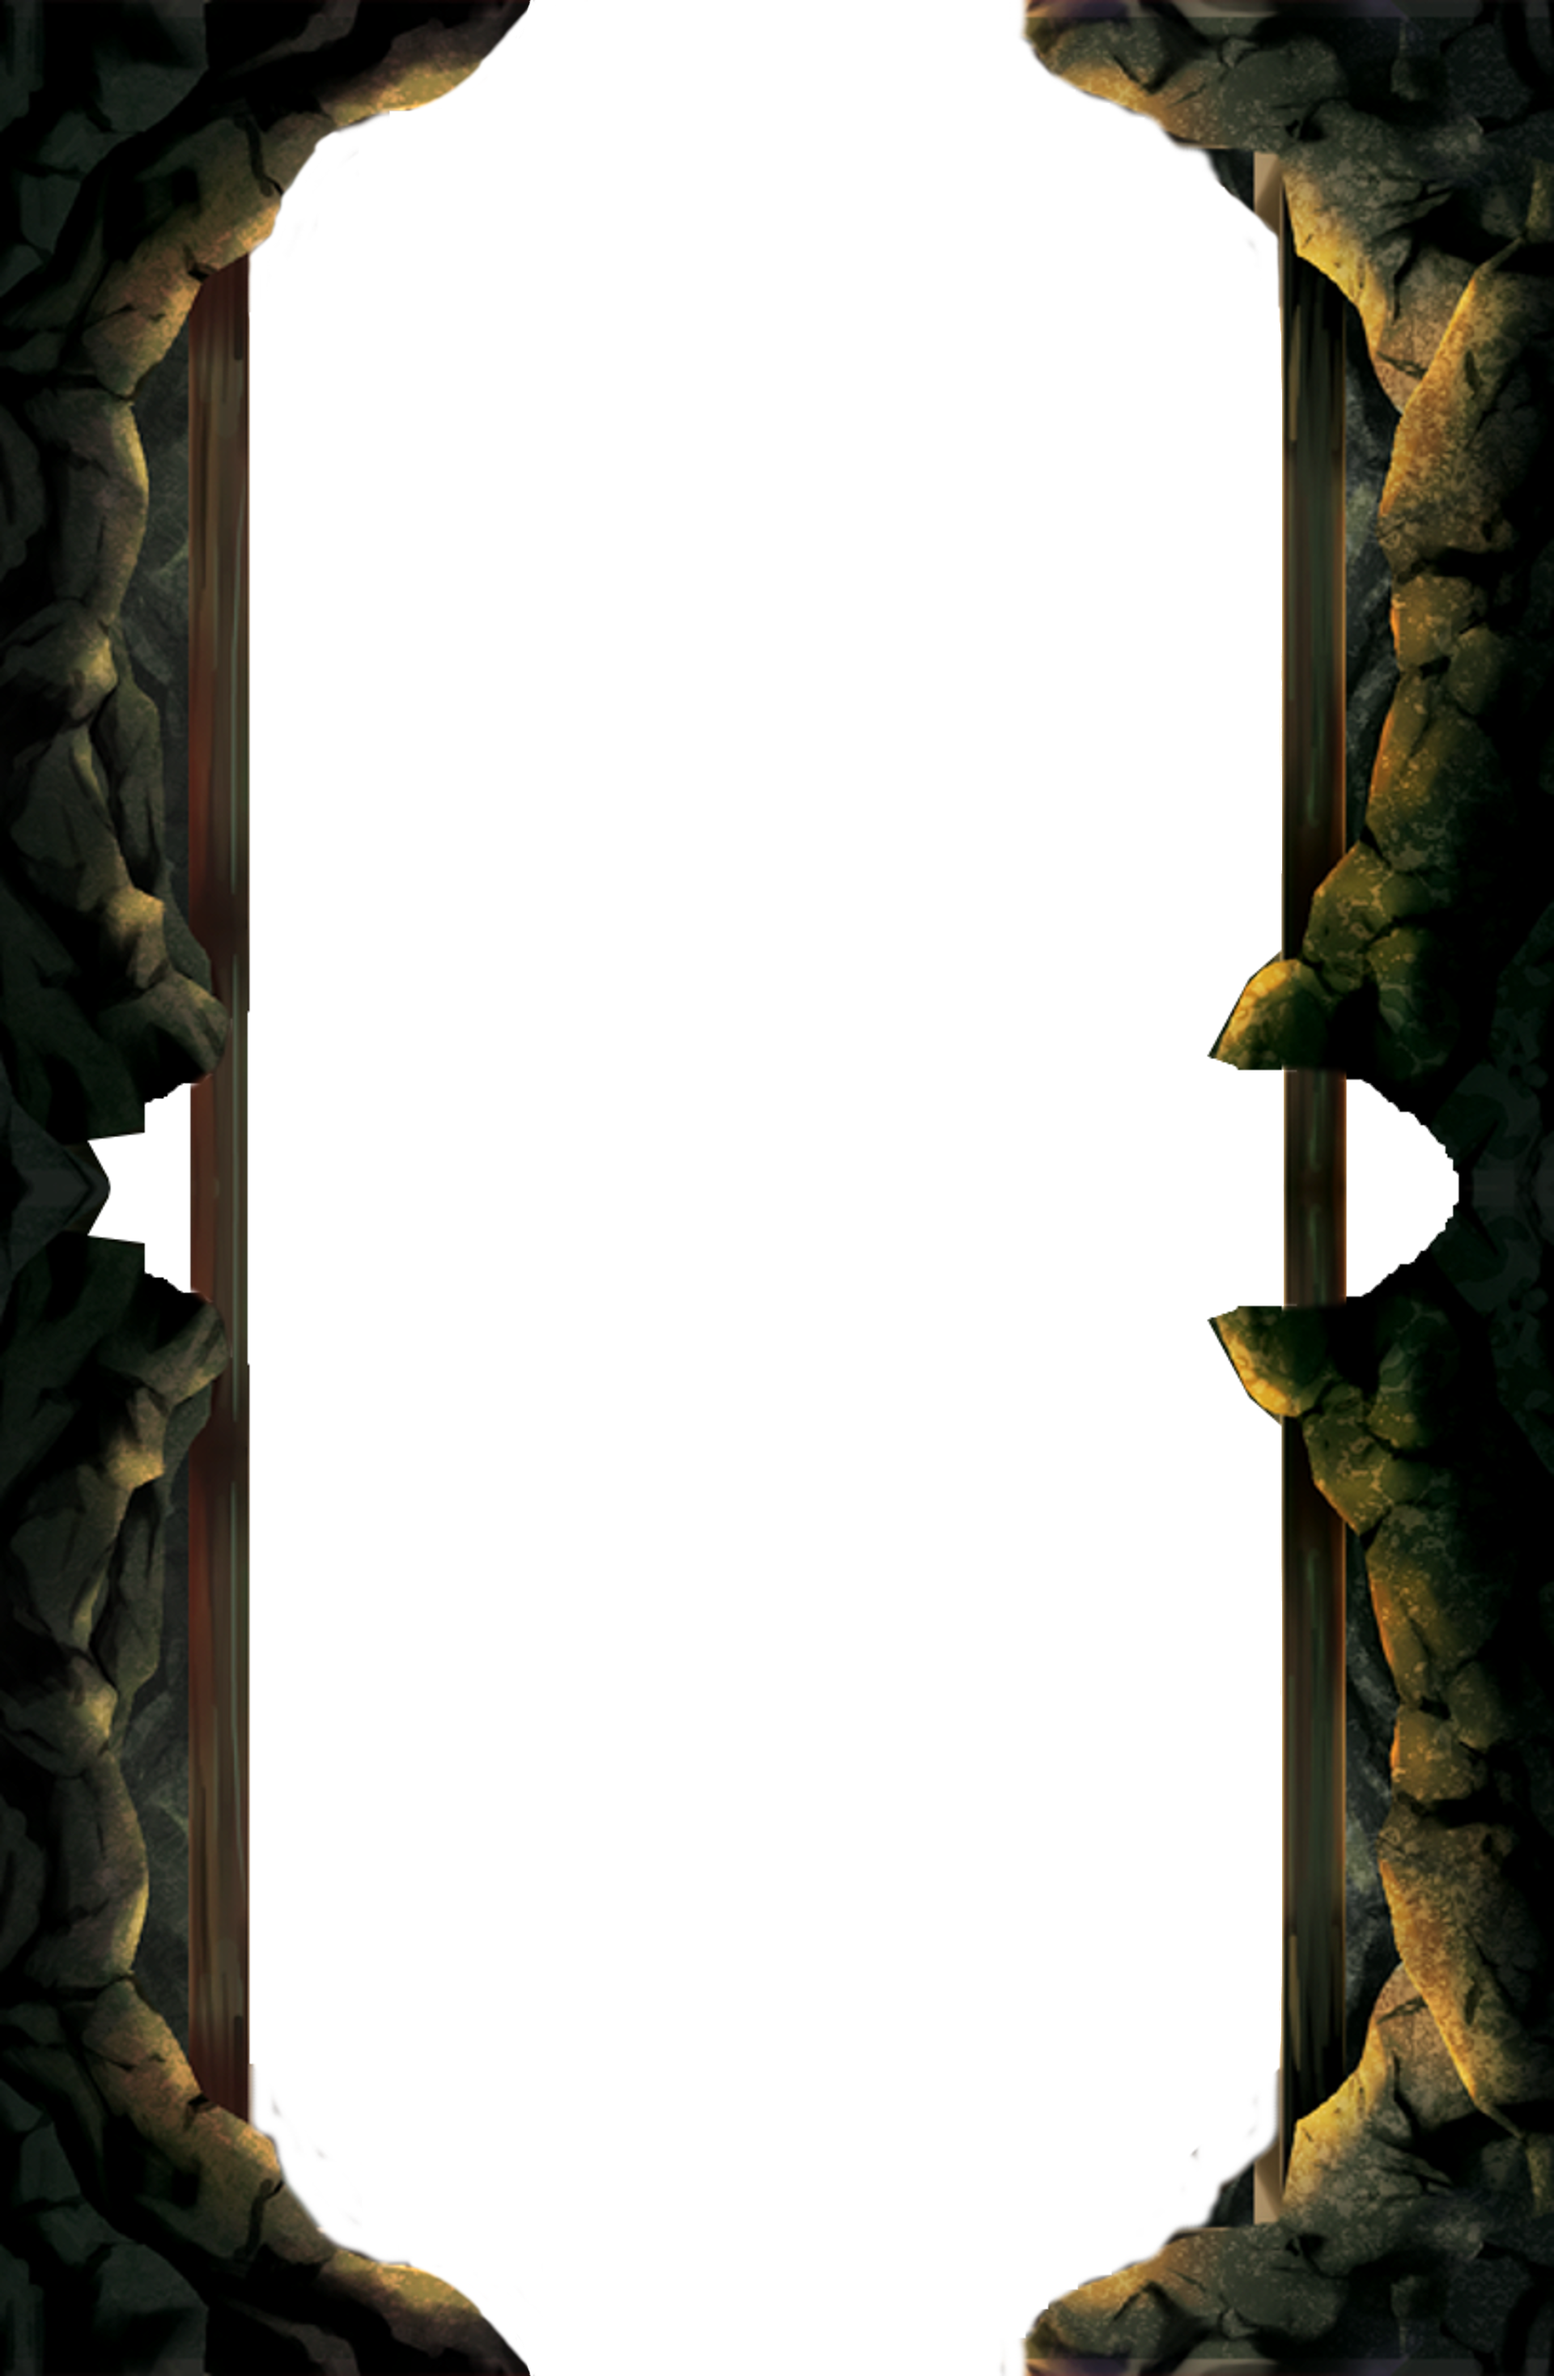
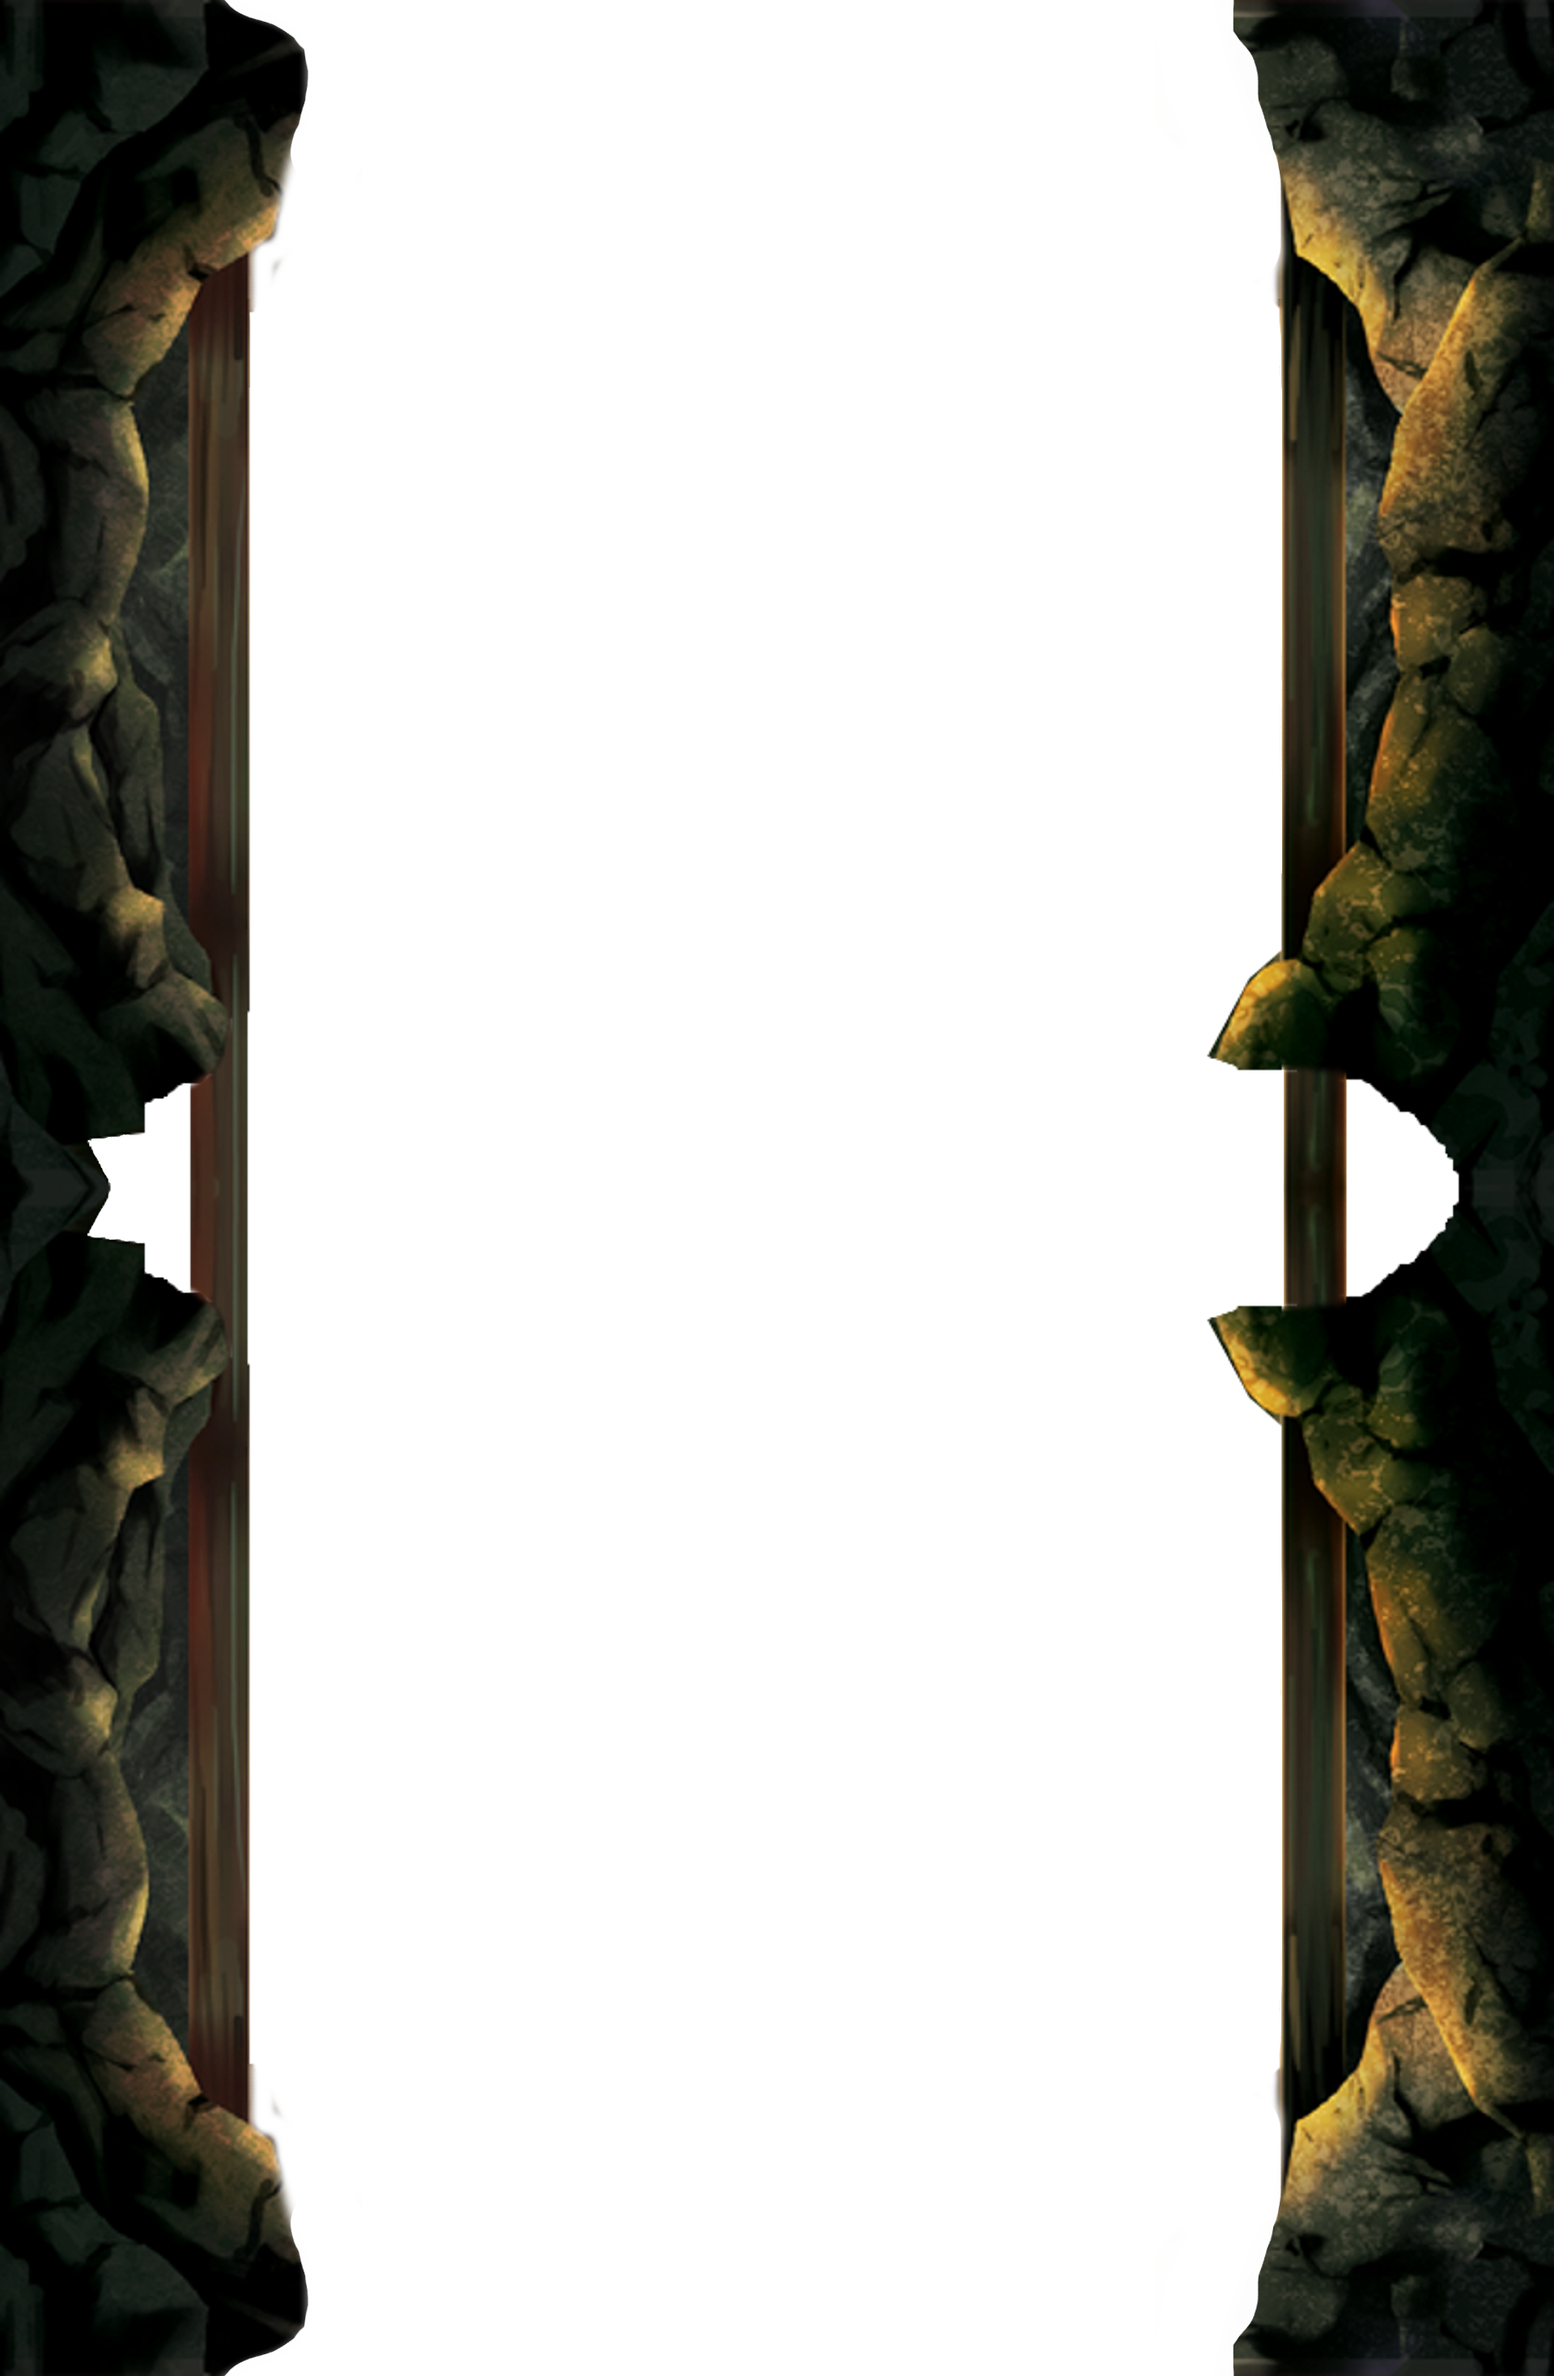
cutscene menu finished

diff --git a/source/main_menu_cutscene.c b/source/main_menu_cutscene.c
@@ -10,13 +10,12 @@
 
 void display_menu_background(st_rpg *s)
 {
-       sfRenderWindow_clear(s->window, sfBlack);
-       for (int i = 1; i != -1; i -= 1) {
-              sfRenderWindow_drawSprite(s->window,
-              s->mainm.rockback[i]->sprite, NULL);
-//              sfRenderWindow_drawSprite(s->window,
-//              s->mainm.hole[i]->sprite, NULL);
-       }
+       sfRenderWindow_drawSprite(s->window, s->mainm.abyss[0]->sprite, NULL);
+       sfRenderWindow_drawSprite(s->window, s->mainm.abyss[1]->sprite, NULL);
+       sfRenderWindow_drawSprite(s->window, s->mainm.rock2[0]->sprite, NULL);
+       sfRenderWindow_drawSprite(s->window, s->mainm.rock2[1]->sprite, NULL);
+       sfRenderWindow_drawSprite(s->window, s->mainm.rockback[0]->sprite, NULL);
+       sfRenderWindow_drawSprite(s->window, s->mainm.rockback[1]->sprite, NULL);
        sfRenderWindow_drawSprite(s->window, s->mainm.first->sprite, NULL);
        sfRenderWindow_drawSprite(s->window, s->mainm.rope->sprite, NULL);
        sfRenderWindow_display(s->window);
@@ -47,10 +46,20 @@ void vertical_movement_mainm(st_rpg *s)
        sfSprite_setPosition(s->mainm.first->sprite, s->mainm.first->pos);
        for (int i = 0; i != 2; i += 1) {
               s->mainm.rockback[i]->pos.y -= s->mainm.rockback[i]->speed;
+              s->mainm.rock2[i]->pos.y -= s->mainm.rock2[i]->speed;
+              s->mainm.abyss[i]->pos.y -= s->mainm.abyss[i]->speed;
               if (s->mainm.rockback[i]->pos.y < -2936)
-                     s->mainm.rockback[i]->pos.y = 2936;
+                     s->mainm.rockback[i]->pos.y += 2936 * 2;
+              if (s->mainm.rock2[i]->pos.y < -3000)
+                     s->mainm.rock2[i]->pos.y += 2236 * 2;
+              if (s->mainm.rock2[i]->pos.y < -5712)
+                     s->mainm.rock2[i]->pos.y += 5712 * 2;
               sfSprite_setPosition(s->mainm.rockback[i]->sprite,
               s->mainm.rockback[i]->pos);
+              sfSprite_setPosition(s->mainm.abyss[i]->sprite,
+              s->mainm.abyss[i]->pos);
+              sfSprite_setPosition(s->mainm.rock2[i]->sprite,
+              s->mainm.rock2[i]->pos);
        }
 }
 

diff --git a/source/main_menu.c b/source/main_menu.c
@@ -14,7 +14,8 @@ void destroy_main_menu(st_rpg *s)
        destroy_object(s->mainm.rope);
        for (int i = 0; i != 2; i += 1) {
               destroy_object(s->mainm.rockback[i]);
-//              destroy_object(s->mainm.hole[i]);
+              destroy_object(s->mainm.rock2[i]);
+              destroy_object(s->mainm.abyss[i]);
        }
 }
 
@@ -25,14 +26,15 @@ void initialize_menu(st_rpg *s)
        s->mainm.rope = create_object("images/menu/ropesheet.png",
        create_vector2f(200, 0), create_rect(0, 0, 72, 1080), 0);
        for (int i = 0; i != 2; i += 1) {
+              s->mainm.abyss[i] = create_object("images/menu/abyss2.png",
+       create_vector2f(300 + 1400 * i , 5712 * i),
+       create_rect(0, 0, 1920, 5712), 2);
               s->mainm.rockback[i] = create_object("images/menu/RockCave.png",
-       create_vector2f(0, 2936 * i), create_rect(0, 0, 1920, 2936), 5);
-//              s->mainm.hole[i] = create_object("images/menu/holes.png",
-//       create_vector2f(rand() % 1920 - 50, y + y * -i + rand() % 200),
-//       create_rect(0, rand() % 3 * 50, 50, 100), 0);
-//       sfSprite_setScale(s->mainm.hole[i]->sprite,
-//       create_vector2f(2 + rand() % 6, 2 + rand() % 6));
+       create_vector2f(0, 2936 * i), create_rect(0, 0, 1920, 2936), 6);
+              s->mainm.rock2[i] = create_object("images/menu/rock3.png",
+       create_vector2f(110, 2236 * i), create_rect(0, 0, 1920, 2236), 4);
        }
+       sfSprite_setScale(s->mainm.abyss[1]->sprite, create_vector2f(-1, 1));
        s->mainm.t.sec = 0.0;
        s->mainm.t.clock = sfClock_create();
 }

diff --git a/include/my_rpg.h b/include/my_rpg.h
@@ -16,8 +16,9 @@ typedef struct struct_main_menu
 	st_time t;
 	g_object *rope;
 	g_object *first;
+	g_object *abyss[2];
 	g_object *rockback[2];
-	g_object *hole[2];
+	g_object *rock2[2];
 } st_menu;
 
 typedef struct struct_rpg
